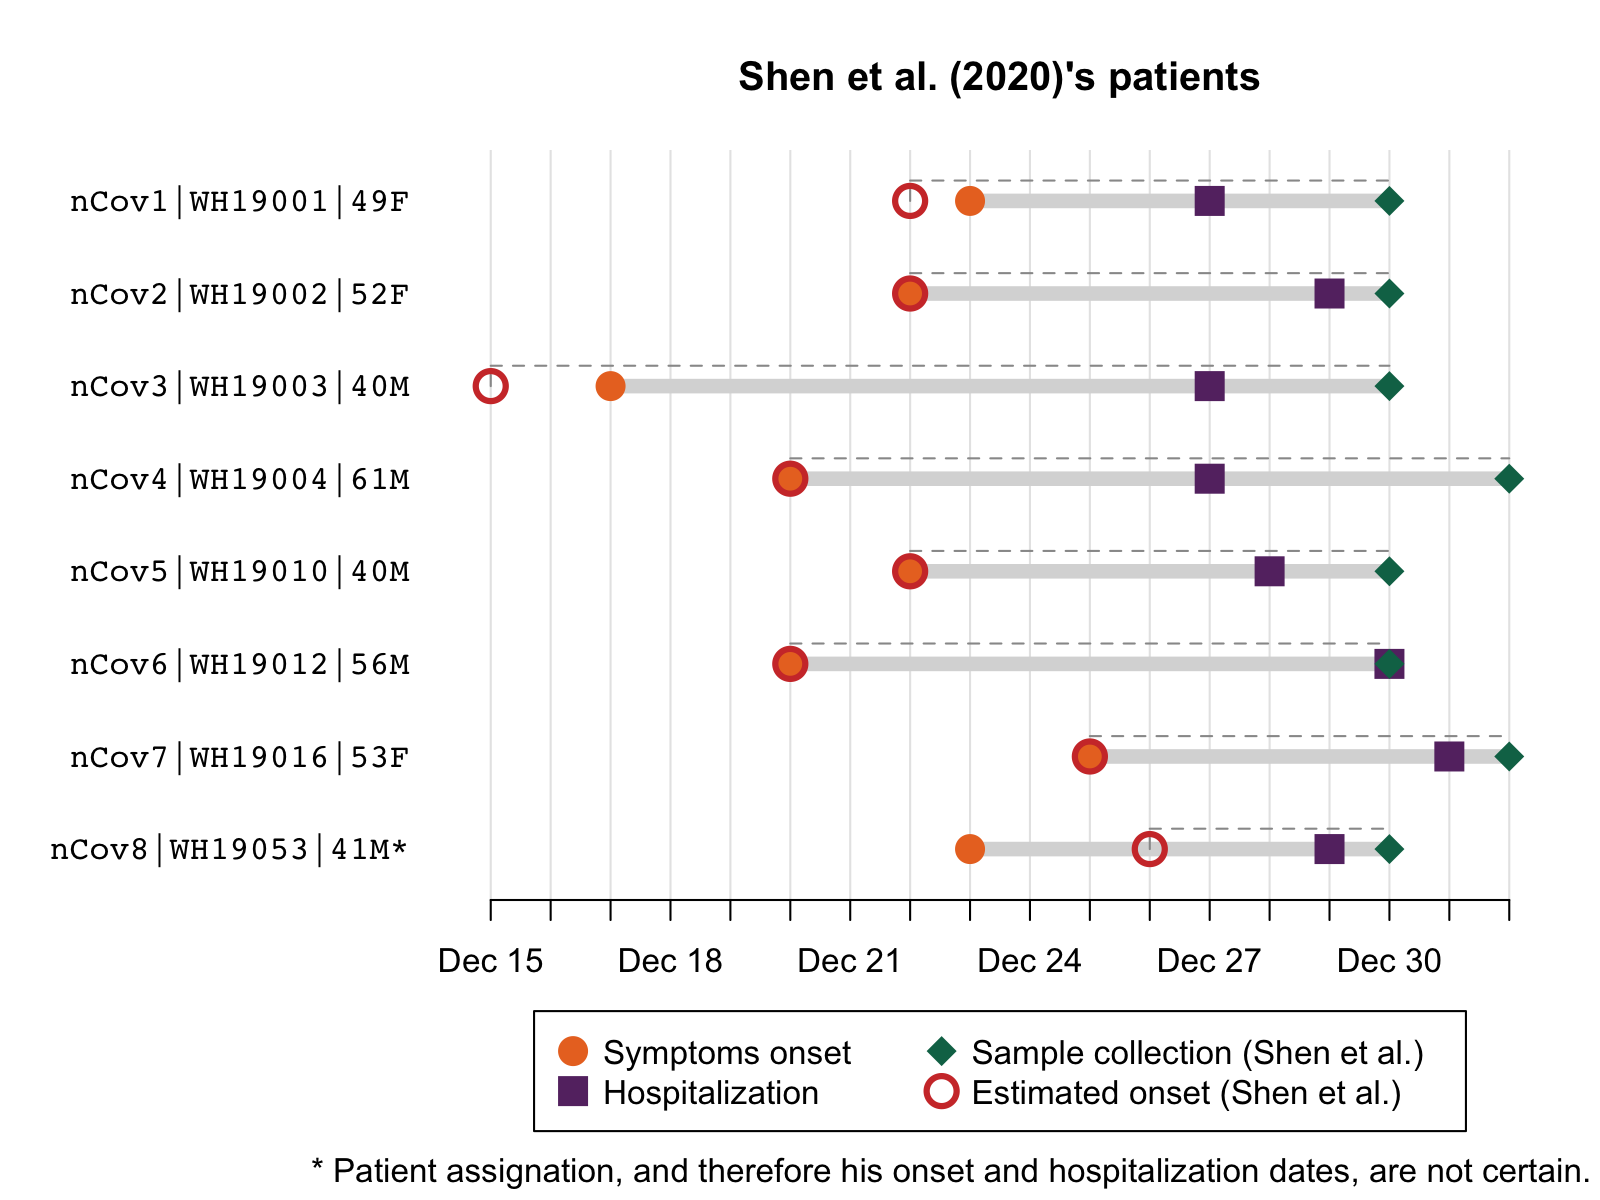
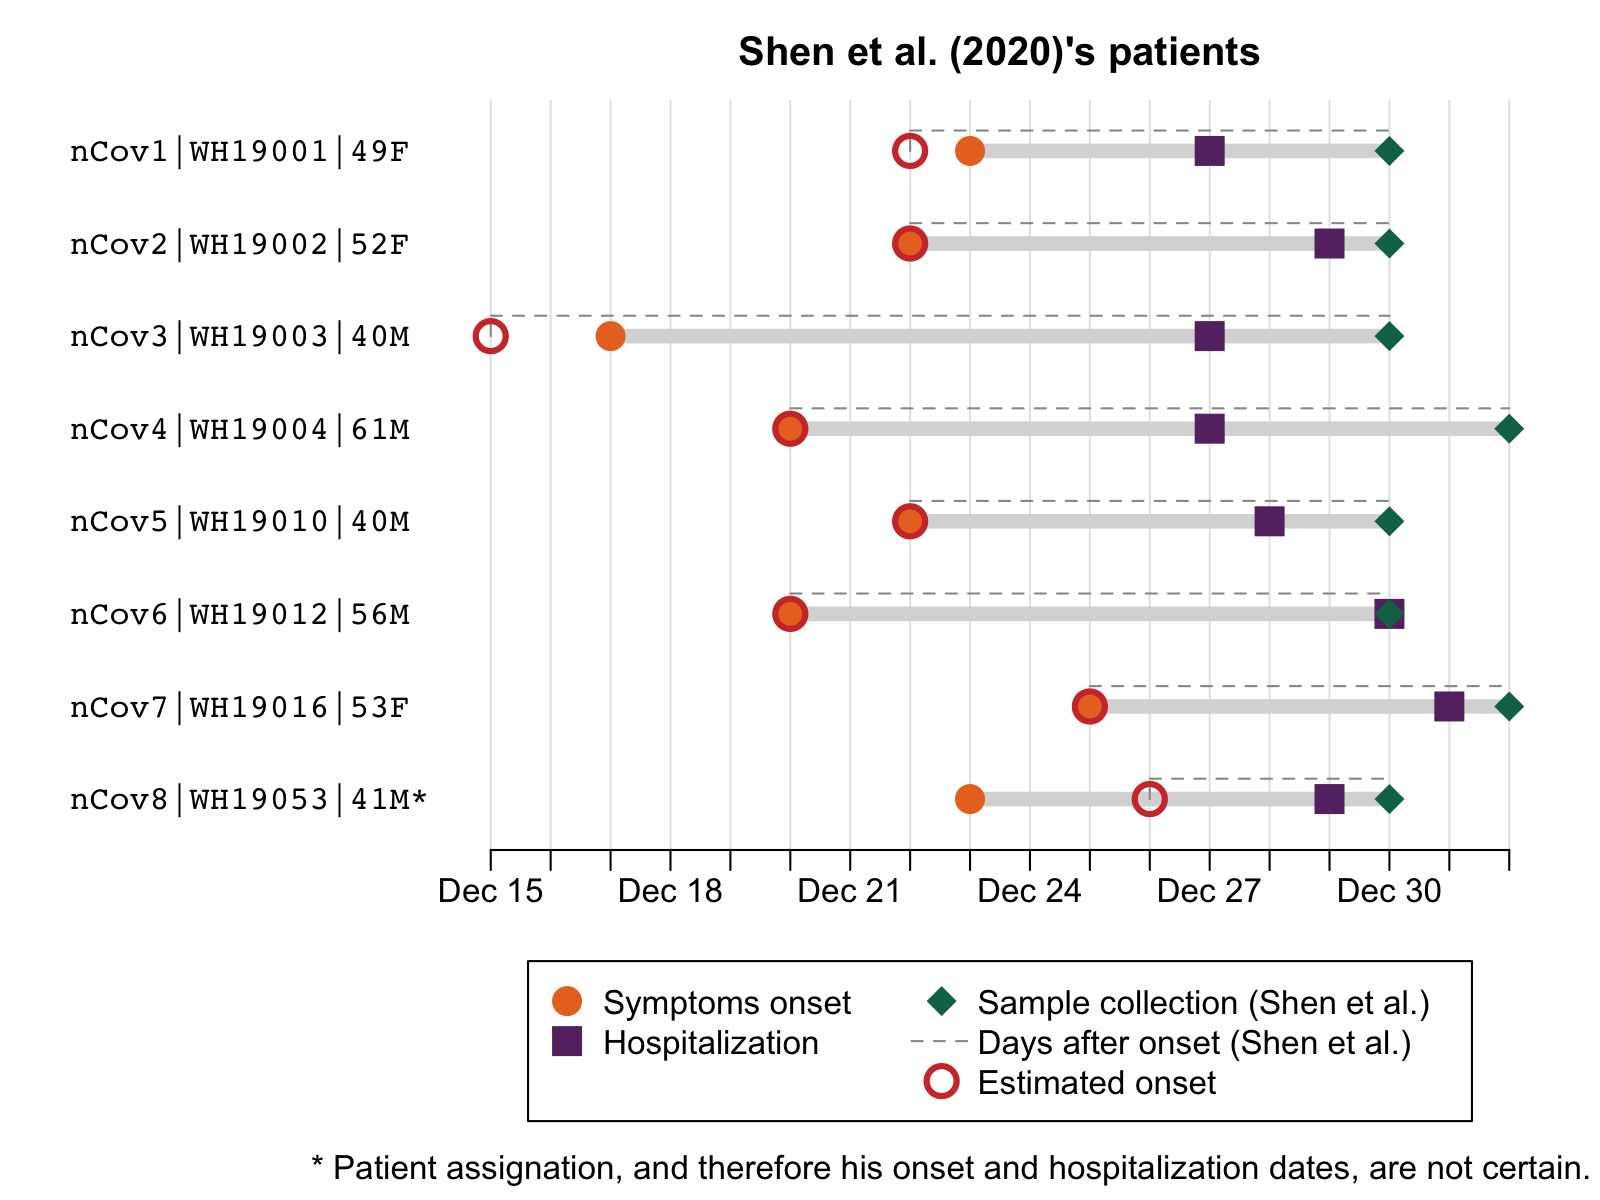
improve text and figure

Changed region(s): [[0.1875, 0.0308, 1.0, 0.9867], [0.0312, 0.1233, 0.2812, 0.7092], [0.2812, 0.2467, 0.3438, 0.3392]]

diff --git a/README.md b/README.md
@@ -1,6 +1,6 @@
 # Shen-etal_2020
 
-TL;DR: The samples sequenced by Shen et al. were collected between 30 Dec 2019 and 01 Jan 2020, and not between 18 Dec and 29 Dec as originally written. 
+TL;DR: The samples sequenced by [Shen et al. (2020)](https://academic.oup.com/cid/article/71/15/713/5780800) were collected between 30 Dec 2019 and 01 Jan 2020 as indicated in the corrected version of their article, and not between 18 Dec and 29 Dec 2019 as originally written. There is no evidence of wrongdoing. 
 
 ## Context  
 
@@ -17,15 +17,16 @@ In November 2021, a [correction](https://academic.oup.com/cid/article/73/12/2374
 ) was published, and the new text read: 
 > *Eight COVID-19 pneumonia samples were collected from hospitals in Wuhan on December 30, 2019 through January 1, 2020*  
 
-(NB: Shen et al.'s Table S1 file was [updated](img/TableS1_v2_metadata.png) in September 2021. It had issues: the patients' outcomes were interverted for all but one patients).  
+(NB: Shen et al.'s Table S1 file was [updated](img/TableS1_v2_metadata.png) in September 2021. The original version of Table S1 had issues: the patients' outcomes were interverted for all but one patients).  
 
 The correction was noted by Jesse Bloom in a [Twitter thread](https://x.com/jbloom_lab/status/1509599601753395210?s=20), questioning the validity of the corrected dates.  
 
 In April 2023, a [New York Times article](https://www.nytimes.com/2023/04/23/world/europe/chinese-censorship-covid.html) mentioned the event, presenting the original dates as the correct ones:  
-> *Then on March 9, scientists from top Chinese laboratories published a paper about how the coronavirus might be mutating. The research appeared in Clinical Infectious Diseases, a prestigious journal published by Oxford University Press.*  
+> *Then on March 9, scientists from top Chinese laboratories published a paper about how the coronavirus might be mutating. The research appeared in Clinical Infectious Diseases, a prestigious journal published by Oxford University Press.*   
+>   
 > *The topic was seemingly apolitical, but it relied on samples collected from patients in Wuhan starting in mid-December 2019. That added to evidence that the virus was spreading widely before the Chinese government took action.*
  
-Here I show elements indicating that the final, corrected collections dates are very likely the correct ones, contrary to what was suggested. 
+Here I show elements indicating that the final, the corrected collections dates (30 Dec - 01 Jan) are very likely the correct ones, contrary to what was suggested. 
 
 ## 1) Collection dates on SRA match the corrected dates
 
@@ -34,30 +35,31 @@ Sequence data were submitted by Shen et al. to the Sequence Read Archive (SRA) o
 ![SRA screenshot](img/SRA_screenshot_nCov4.png)  
 Screenshot of [SRA page](https://www.ncbi.nlm.nih.gov/biosample/14081560), showing at the bottom the 2020-02-11 submission date. 
 
-This should be sufficient evidence confirming that the 30 Dec-01 Jan collection dates are indeed correct. However, on the topic of Covid origin, it [has been argued](https://x.com/Ayjchan/status/1320348838205526016?s=20) that data on SRA could have been tampered with. Can we confirm these dates? Yes. 
+This should be sufficient evidence confirming that the 30 Dec - 01 Jan collection dates are indeed correct, since this is the information that was provided in February 2020. However, on the topic of Covid origin, it [has been argued](https://x.com/Ayjchan/status/1320348838205526016?s=20) that data on SRA could have been tampered with. Can we confirm these dates? Yes. 
 
-First, data on SRA are synchronised on other databases, including the European Nucleotide Archive (ENA). Conveniently, this database displays two dates for each record: the date of first publication, and the date of last update (`ENA-LAST-UPDATE`). The last update date for the Shen et al. records on ENA is the same as the date of first publication, 25 Feb 2020, confirming that information was not altered. 
+First, data on SRA are synchronised on other databases, including the European Nucleotide Archive (ENA). Conveniently, this other database displays two dates for each record: the date of first publication (`ENA_FIRST_PUBLIC`), and the date of last update (`ENA-LAST-UPDATE`). The last update date for the Shen et al. records on ENA is the same as the date of first publication, 25 Feb 2020. This confirms that metadata were not altered. 
 
 ![ENA screenshot](img/ENA_screenshot_nCov4.png)  
 Screenshot of [ENA page](https://www.ebi.ac.uk/ena/browser/view/SAMN14081560), showing at the botton the 2020-02-25 last update date. 
 
-Still, on other subtopics, I have been told that even ENA could be complicit and alter data. We will therefore find a different way to checking Shen et al.'s collection dates. We will do so by matching the samples to actual patients, for whom onset dates are known (as [suggested](https://x.com/jbloom_lab/status/1432914677692973058?s=20) by Jesse Bloom in September 2021). 
+Still, on other subtopics, I have been told that even ENA could be complicit and also alter data. We will therefore find a different way to checking Shen et al.'s collection dates. We will do so by matching the samples to actual patients, for whom onset dates are known -- as [suggested](https://x.com/jbloom_lab/status/1432914677692973058?s=20) by Jesse Bloom back in September 2021. 
  
  ## 2) Onset dates estimated from Shen et al.'s metadata match known onset dates
  
- From SRA metadata, we have the collection dates of each of Shen et al.'s samples. Shen et al.'s [Table S1](https://oup.silverchair-cdn.com/oup/backfile/Content_public/Journal/cid/71/15/10.1093_cid_ciaa203/6/ciaa203_suppl_supplementary_tables_s1-s6.xlsx?Expires=1702851296&Signature=QOB79x~8oxkYCxDC~kmzC3HmLHlWzoK1c-I9FRaO6nYollFklsh0rh9dQRy2wtEkFeJTzt3g~9UIdLZOvAVPL0-6AJsTQsxM4HWHKy8JnBon3DITcdvVlHLjkl-EHT~4Re5ldyRuL~H4-SstCzD1E1IZzg69~V7Di4lLFuxjPmNXHumYktmPfAXaocW7auh82j525fZmRlcZttQuA7CA4C2SOh-aSnX8jPtnviju-AyZoVTbKbHdzhU9JveMNwO8ibX~Bh7qO6i3I84~3EHX9edBVaf3WZ9MXa8OHOD5GWyu9vIsXiijKoITz0a~kTxBDSgmOaHyvcSk1Ew6isMKUw__&Key-Pair-Id=APKAIE5G5CRDK6RD3PGA) additionally contains a column "Days after onset". Importantly, the values presented in this column were the same in the original version of Table S1, before correction (I did not find it in Jesse Bloom's repo, but I found a [screenshot](img/TableS1_v1.png) in slides prepared by Francisco de Asis). We can substract these values from the collection dates to obtain estimated onset dates.  
+ The SRA metadata provide the collection dates of each of Shen et al.'s samples. Shen et al.'s [Table S1](https://oup.silverchair-cdn.com/oup/backfile/Content_public/Journal/cid/71/15/10.1093_cid_ciaa203/6/ciaa203_suppl_supplementary_tables_s1-s6.xlsx?Expires=1702851296&Signature=QOB79x~8oxkYCxDC~kmzC3HmLHlWzoK1c-I9FRaO6nYollFklsh0rh9dQRy2wtEkFeJTzt3g~9UIdLZOvAVPL0-6AJsTQsxM4HWHKy8JnBon3DITcdvVlHLjkl-EHT~4Re5ldyRuL~H4-SstCzD1E1IZzg69~V7Di4lLFuxjPmNXHumYktmPfAXaocW7auh82j525fZmRlcZttQuA7CA4C2SOh-aSnX8jPtnviju-AyZoVTbKbHdzhU9JveMNwO8ibX~Bh7qO6i3I84~3EHX9edBVaf3WZ9MXa8OHOD5GWyu9vIsXiijKoITz0a~kTxBDSgmOaHyvcSk1Ew6isMKUw__&Key-Pair-Id=APKAIE5G5CRDK6RD3PGA) additionally contains a "Days after onset" column. Importantly, the values presented in this column were the same in the original version of Table S1, before correction (I did not find it in Jesse Bloom's repo, but I found a [screenshot](img/TableS1_v1.png) in slides prepared by Francisco de Asis). We can substract these values from the collection dates to obtain estimated onset dates.  
  
  In parallel, using the age and sex information shared by Shen et al., as well as the genomic sequences, we can match the patients to patients described in other publications. This step was greatly facilitated by a deduplication table published by [Babarlelephant et al. (2022)](https://zenodo.org/records/6672912). All but one patients could be identified with near certainty (some uncertainty remains for nCov8 / 41M). The results are available in [this table](data/sra-S1.csv), and shown in a figure below. 
  
  We can then compare the estimated onset dates (open circles) to the onset dates known from other publications (full circles). They match exactly for five patients, and roughly for the three others (1, 2 and 3-day differences, with the largest difference being for the uncertain patient). 
  
  ![onset dates](scripts/plotDates.png)
+ Onset dates for the different patients in Shen et al. (2020), from other sources (full circles) and computed from information provided by Shen et al. (2020) (open circles). [Source data](data/sra-S1.csv); [script for plotting](scripts/plotDates.R).
  
  Finally, we can also note that the sample collection dates listed by Shen et al. match sample collection dates for the same patients in other publications. 
  
  ## Conclusion
  
- The samples studied by Shen et al. (2020) were collected between 30 Dec 2019 and 01 Jan 2020. There is no evidence that the initial 18 Dec-29 Dec date range was correct. This was likely just a confusion with onset dates (though the range we find differs a tiny bit). But there is no evidence that samples were collected before it was even realized that there were cases of a new pneumonia throughout Wuhan. 
+ The samples studied by Shen et al. (2020) were collected between 30 Dec 2019 and 01 Jan 2020. There is no evidence that the initial 18 Dec - 29 Dec date range was correct. This was likely just a confusion with onset dates (though the range we find differs a tiny bit). But there is no evidence that samples were collected before it was even realized that there were cases of a new pneumonia throughout Wuhan. 
 
 
 
